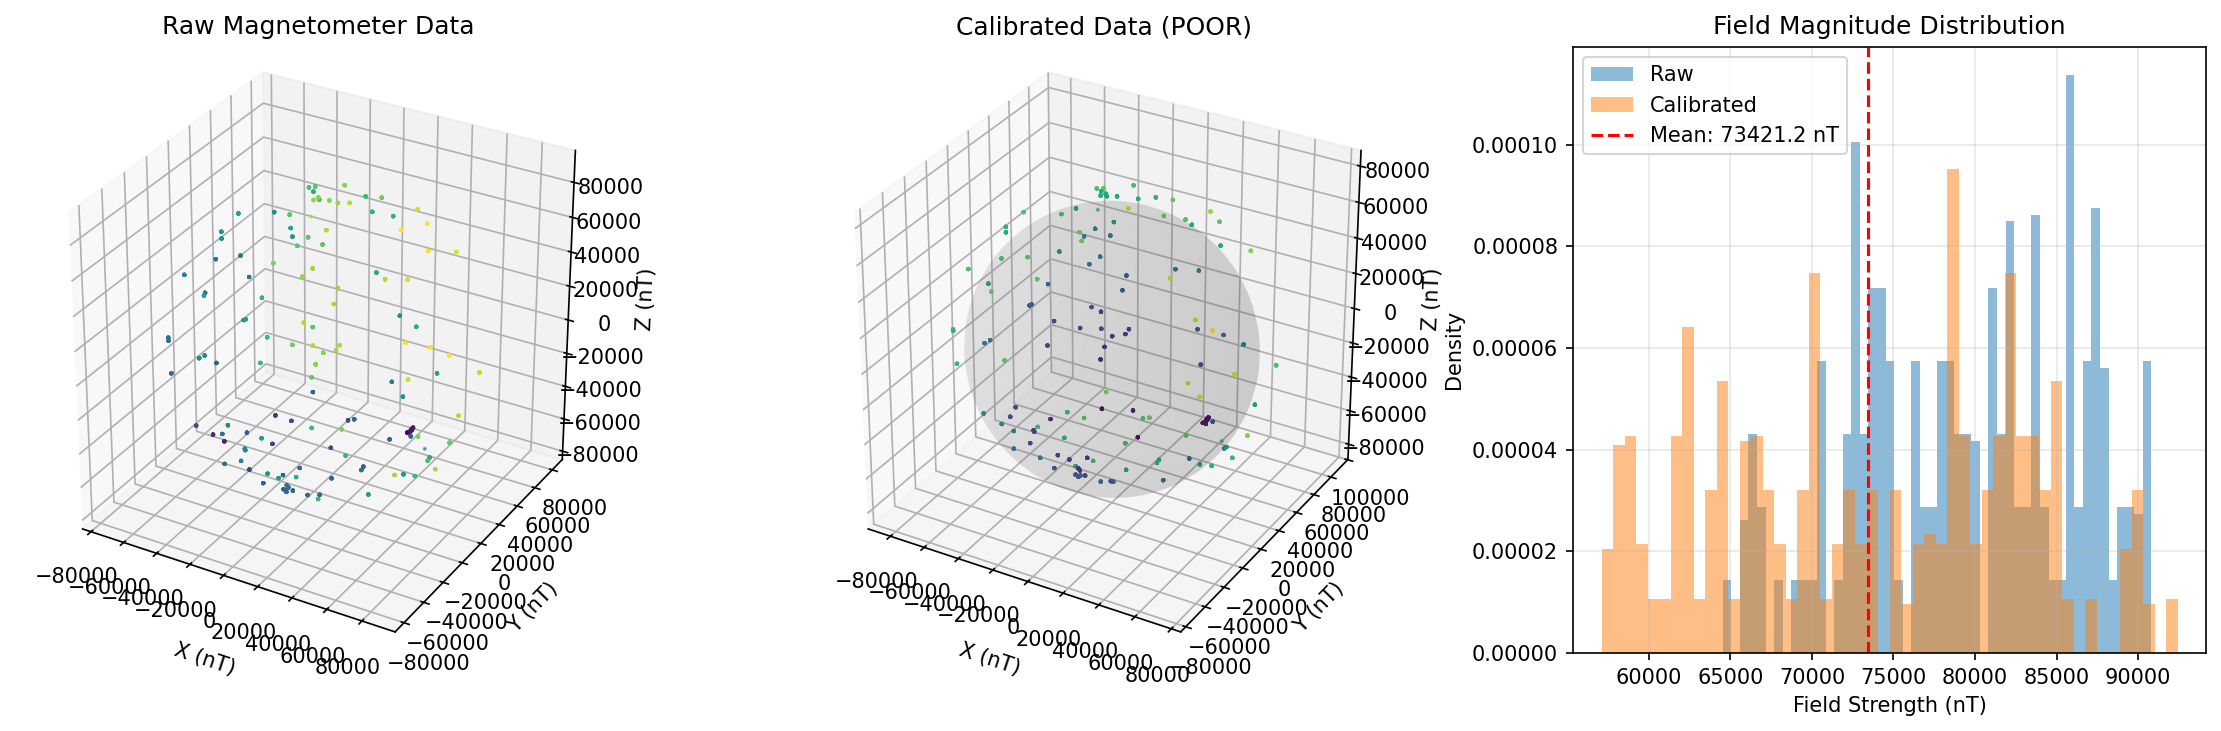
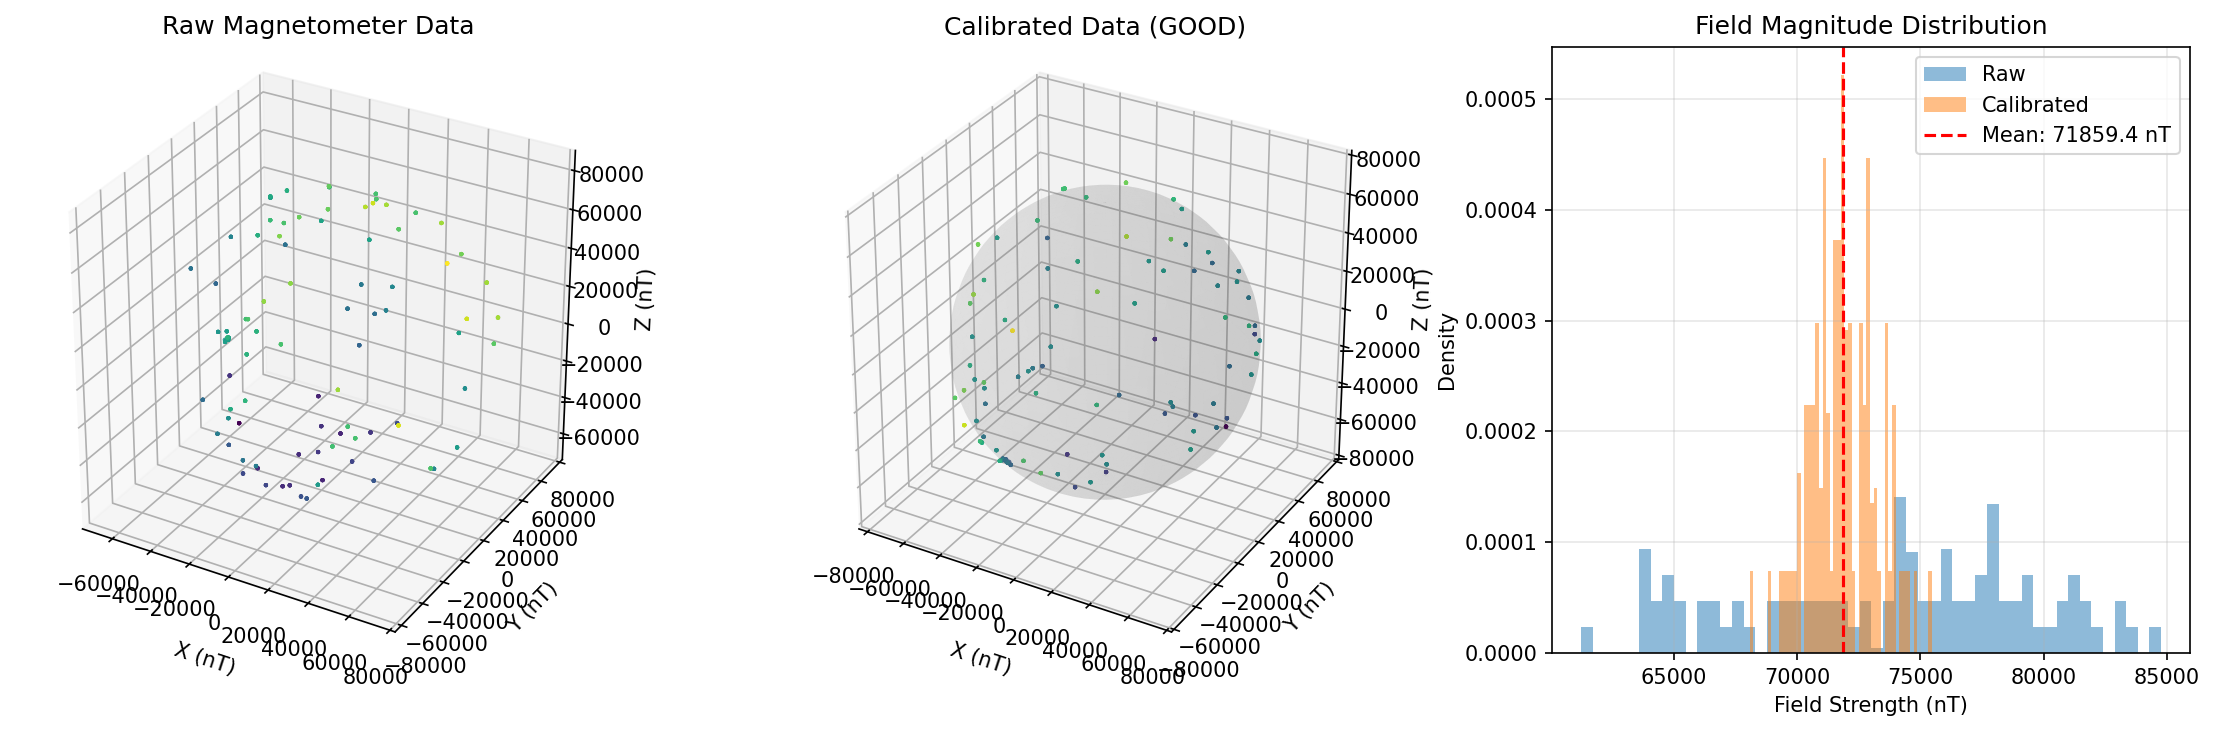
Refine calibration logic and update calibration data for improved accuracy

diff --git a/calibrate.py b/calibrate.py
@@ -224,8 +224,8 @@ class CalibrationCollector:
         - Only the 3D plot display is downsampled for performance
         
         Visualization features:
-        - Inliers (points fitting the sphere) plotted with color gradient (time-based)
-        - Outliers (deviations > 20% from sphere radius) plotted in transparent gray
+        - Inliers (points within 2.5σ of mean radius) plotted with color gradient (time-based)
+        - Outliers (deviations >2.5σ from mean radius) plotted in transparent gray
         - Provides immediate visual feedback on data quality and disturbances
         
         Performance optimizations:
@@ -254,14 +254,19 @@ class CalibrationCollector:
             mean_radius = np.mean(radii)
             std_radius = np.std(radii)
             
-            # Classify points as inliers or outliers
-            # Outliers are points deviating > 20% from mean radius
-            outlier_threshold = mean_radius * 0.20
+            # Classify points as inliers or outliers using statistical threshold
+            # Outliers are points beyond mean ± 2.5 standard deviations
+            # This is a more robust statistical approach than using % of mean
+            outlier_threshold = 2.5 * std_radius
             is_inlier = np.abs(radii - mean_radius) <= outlier_threshold
             is_outlier = ~is_inlier
             
             inlier_data = data[is_inlier]
             outlier_data = data[is_outlier]
+            
+            if self.debug_plotting and len(data) % 50 == 0:  # Print every 50 samples
+                print(f"[DEBUG] Radius stats: mean={mean_radius:.1f} nT, std={std_radius:.1f} nT, "
+                      f"threshold={outlier_threshold:.1f} nT")
             
             # Downsample both inliers and outliers for plotting
             def downsample_points(points, max_points):
@@ -283,9 +288,6 @@ class CalibrationCollector:
             plot_inliers, inlier_colors = downsample_points(inlier_data, self.max_plot_points)
             
             # Downsample outliers (plot fewer - just to show disturbances)
-            max_outliers = min(100, self.max_plot_points // 5)  # Max 100 outliers shown
-            plot_outliers, _ = downsample_points(outlier_data, max_outliers)
-            
             max_outliers = min(100, self.max_plot_points // 5)  # Max 100 outliers shown
             plot_outliers, _ = downsample_points(outlier_data, max_outliers)
             
